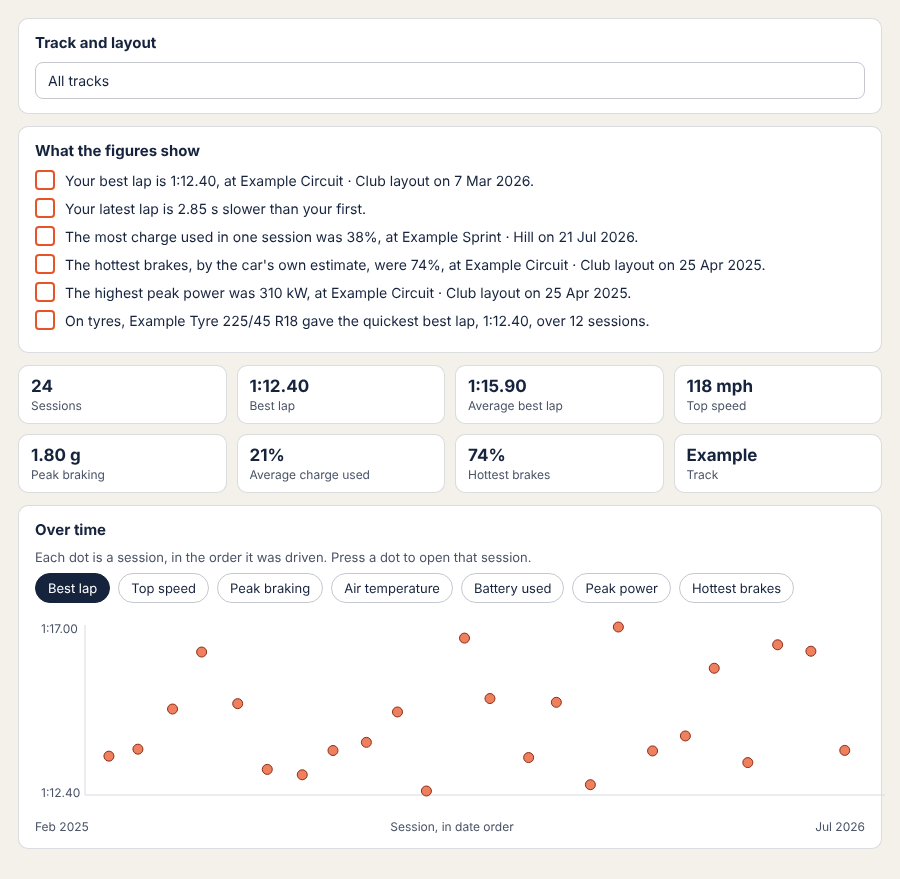
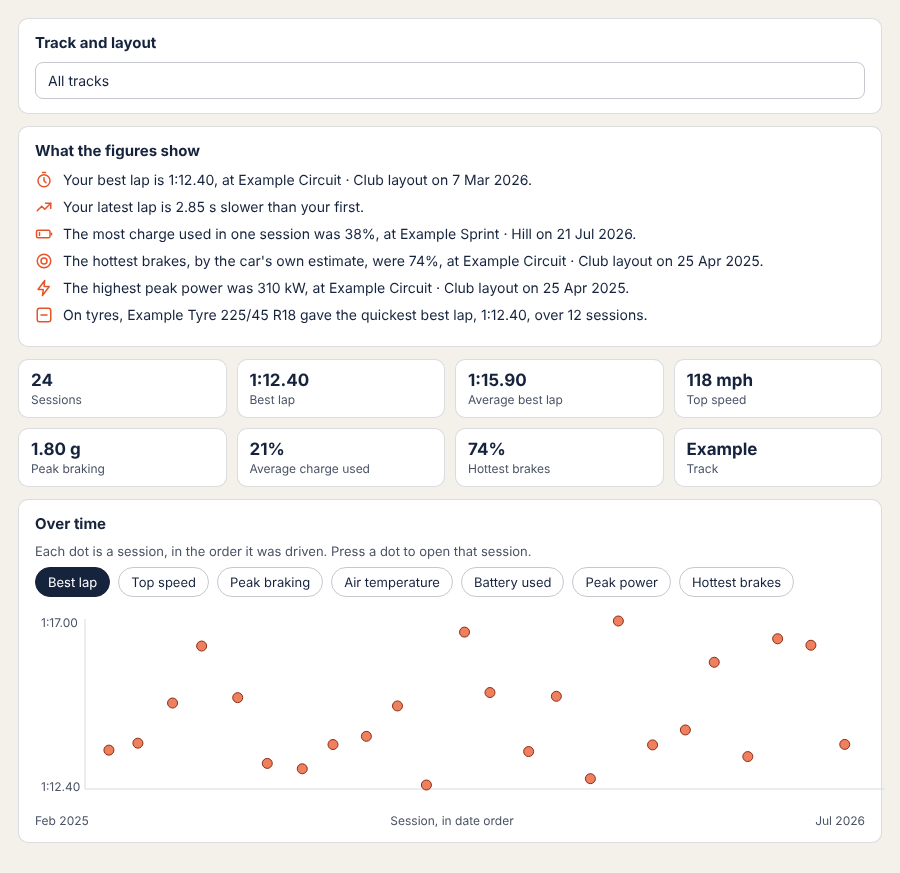
Laps: the My Analysis example note is about data analysis, not Track Mode
The note says data analysis is a paid feature, and that adding Tesla Track Mode data to a session makes extra insights
available. The figures in the example use the same icons as the real page, and the example image is redrawn with
example figures only. The page script is at ?v=22.

Next: look at My Analysis as a free member on phone and desktop.
Suggest: none.

Claude-Session: https://claude.ai/code/session_013upmQin1o8Npuv54Mkd39E

diff --git a/js/my-analysis-page.js b/js/my-analysis-page.js
@@ -352,7 +352,8 @@
     if (t && t.success && t.applies && !t.full) {
       // An example of a paid analysis, greyed out so it is clear it is not the member's own. Nothing of theirs is shown.
       app.innerHTML = '<div class="tm-card ma-example-note"><h2>This is an example</h2>' +
-        '<p><b>Track Mode data analysis is a paid feature.</b> It turns the figures your car records into lap times, corner by corner, grip and what each change did, for every session. This is an example, not your data. Unlock to see your own sessions here.</p>' +
+        '<p><b>Data analysis is a paid feature.</b> It turns the figures your logger or car records into lap times, corner by corner, grip and what each change did, for every session. This is an example, not your data. Unlock to see your own sessions here.</p>' +
+        '<p class="tm-sub">If you add Tesla Track Mode data to a session, extra insights are available.</p>' +
         '<button type="button" class="tm-pill tm-pill-accent" data-ma-unlock>Unlock</button> <span class="tm-sub" data-ma-note hidden>Subscriptions are coming soon. Nothing is charged yet.</span></div>' +
         '<div class="ma-example" aria-label="Example, not your data"><img src="images/track-preview/analysis-example.png" alt="An example session analysis, not a member\'s own data" loading="lazy"></div>';
       app.querySelector('[data-ma-unlock]').addEventListener('click', function () { var n = app.querySelector('[data-ma-note]'); if (n) n.hidden = false; });

diff --git a/my-analysis.html b/my-analysis.html
@@ -283,7 +283,7 @@
 </footer>
 
 <script src="js/track-view.js?v=20270115" defer></script>
-<script src="js/my-analysis-page.js?v=20" defer></script>
+<script src="js/my-analysis-page.js?v=22" defer></script>
 <script src="js/share.js?v=20270301" defer></script>
 <script src="js/laps-logo.js?v=1" defer></script>
 <script src="js/account-bar.js?v=17" defer></script>
